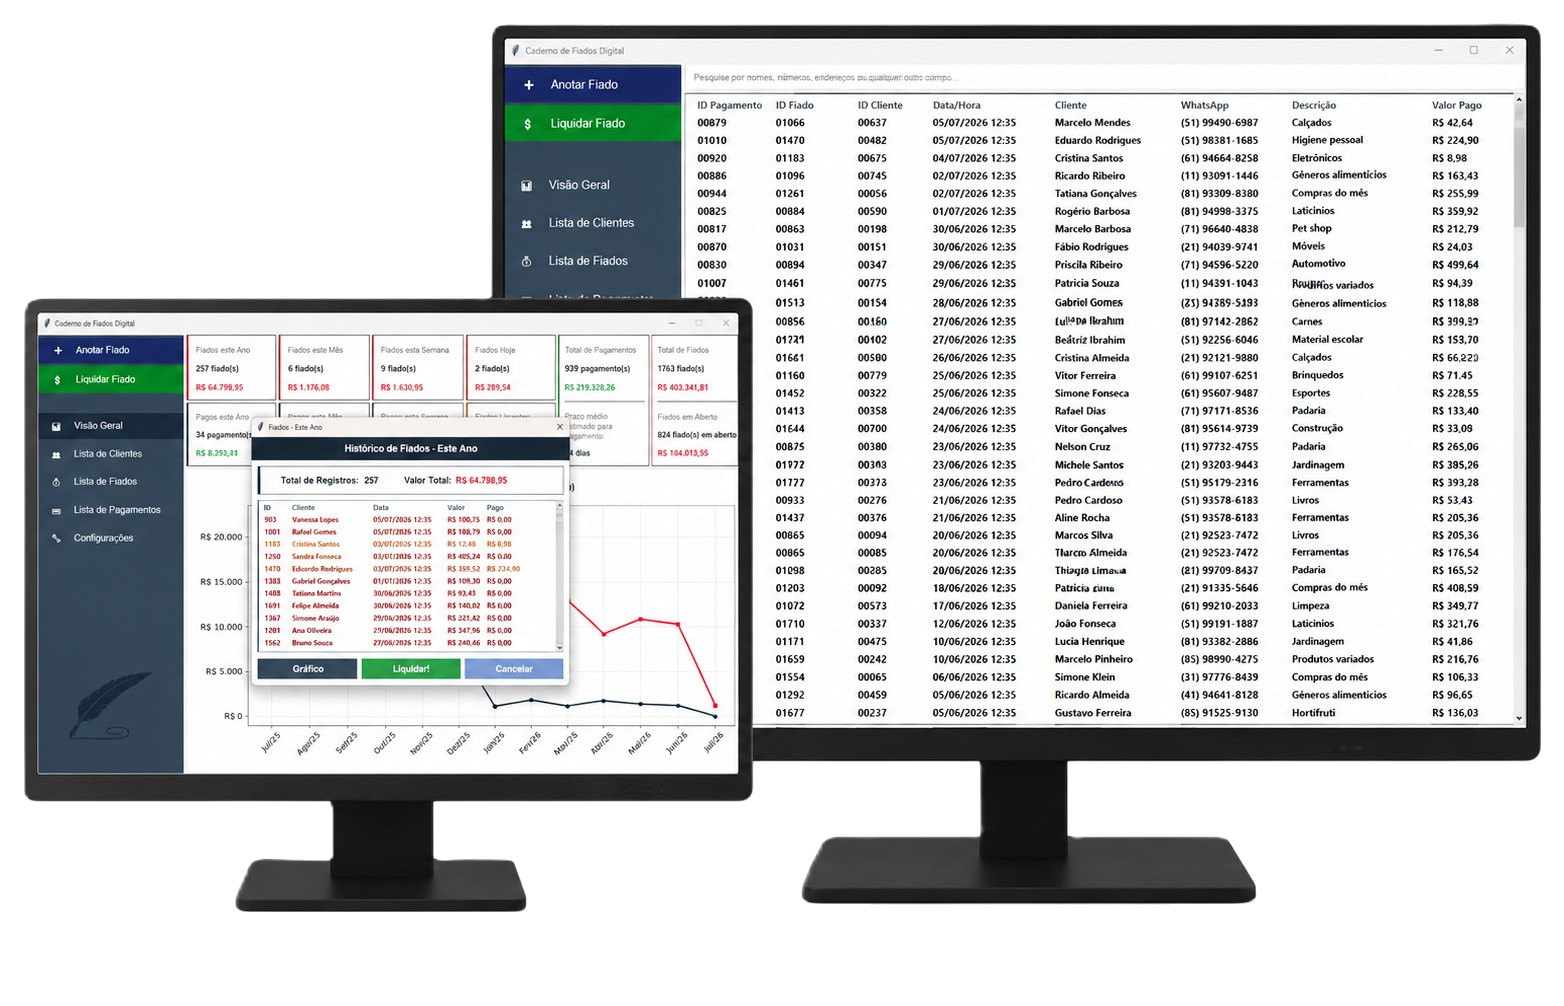
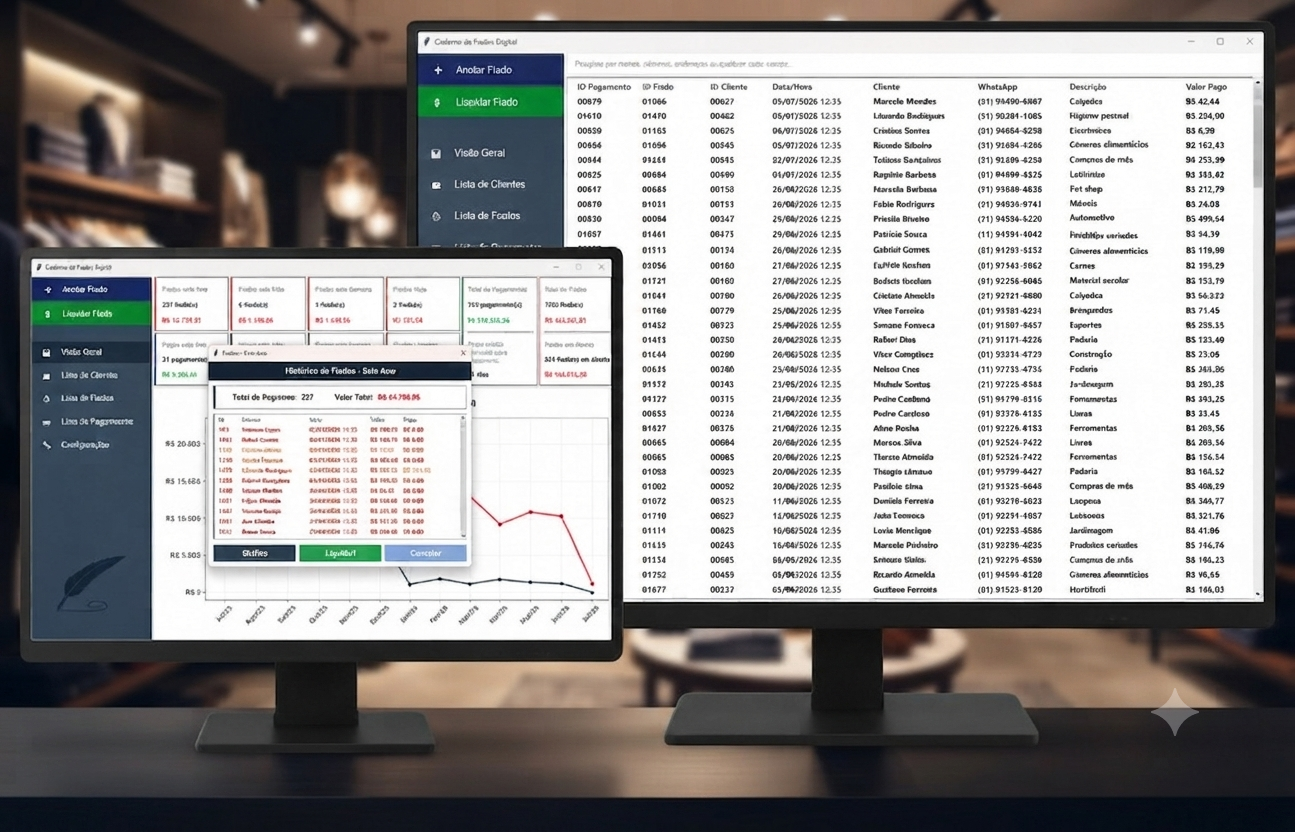
260

diff --git a/cadernodefiadosdigital/index.html b/cadernodefiadosdigital/index.html
@@ -230,7 +230,16 @@
             }
 
             .btn { width: 100%; }
+
+            /* Esconde os blocos de emoji nas últimas 4 seções no mobile */
+            .trophy-large.emoji-block { display: none; }
+
+            /* Mostra o span inline do emoji ao lado do h2 no mobile */
+            .emoji-inline { display: inline !important; }
         }
+
+        /* No desktop o span inline fica oculto */
+        .emoji-inline { display: none; }
         
     </style>
     <meta charset="UTF-8">
@@ -335,56 +344,56 @@
         <div class="feature-image"><img src="../imagens/fiados_urgentes.jpg" alt="Alertas de Fiados Urgentes"></div>
     </section>
 
-    <section class="feature alternate" style="background-color: #f5d3cf;">
+    <section class="feature alternate" style="background-color: #e4d5ff;">
         <div class="feature-image"><img src="../imagens/acessibilidade.png" alt="Acessibilidade"></div>
         <div class="feature-text">
-            <h2>Acessibilidade</h2>
+            <h2>Acessibilidade&nbsp;<span class="emoji-inline">👩💻</span></h2>
             <p>Funciona inteiramente com ou sem mouse, em telas HD, Full HD, e 4K. Sistema intuitivo e fácil de usar.</p>
             <div class="ctas">
                 <button class="btn btn-primary" onclick="baixarAplicativo()">Baixar Teste <img src="../imagens/windows.png" alt="Download" style="height: 20px; width: auto; margin-left: 10px;"></button>
                 <button class="btn btn-secondary" onclick="iniciarCompra()">Comprar Chave <img src="../imagens/carrinho.png" alt="Comprar" style="height: 20px; width: auto; margin-left: 10px;"></button>
             </div>
         </div>
-        <div class="feature-image trophy-large">👩💻</div>
+        <div class="feature-image trophy-large emoji-block">👩💻</div>
     </section>
 
-    <section class="feature alternate" style="background-color: #fff9e6;">
+    <section class="feature alternate" style="background-color: #c0f8e8;">
         <div class="feature-image"><img src="../imagens/internet.png" alt="Funciona sem Internet"></div>
         <div class="feature-text">
-            <h2>Funciona sem Internet</h2>
+            <h2>Funciona sem Internet&nbsp;<span class="emoji-inline">✅</span></h2>
             <p>O aplicativo funciona offline. Nenhuma necessidade de conexão com a internet para registrar fiados, gerenciar clientes ou visualizar relatórios.</p>
             <div class="ctas">
                 <button class="btn btn-primary" onclick="baixarAplicativo()">Baixar Teste <img src="../imagens/windows.png" alt="Download" style="height: 20px; width: auto; margin-left: 10px;"></button>
                 <button class="btn btn-secondary" onclick="iniciarCompra()">Comprar Chave <img src="../imagens/carrinho.png" alt="Comprar" style="height: 20px; width: auto; margin-left: 10px;"></button>
             </div>
         </div>
-        <div class="feature-image trophy-large">✅</div>
+        <div class="feature-image trophy-large emoji-block">✅</div>
     </section>
     
     <section class="feature alternate" style="background-color: #f5d3cf;">
         <div class="feature-image"><img src="../imagens/configuracoes.jpg" alt="Configurações e Backup"></div>
         <div class="feature-text">
-            <h2>Segurança com Backup e Restauração</h2>
+            <h2>Segurança com Backup e Restauração&nbsp;<span class="emoji-inline">🛠</span></h2>
             <p>Seus dados são armazenados localmente em SQLite, garantindo conformidade LGPD. Realize backups e restaurações facilmente e nunca perca seu histórico de vendas fiado.</p>
             <div class="ctas">
                 <button class="btn btn-primary" onclick="baixarAplicativo()">Baixar Teste <img src="../imagens/windows.png" alt="Download" style="height: 20px; width: auto; margin-left: 10px;"></button>
                 <button class="btn btn-secondary" onclick="iniciarCompra()">Comprar Chave <img src="../imagens/carrinho.png" alt="Comprar" style="height: 20px; width: auto; margin-left: 10px;"></button>
             </div>
         </div>
-        <div class="feature-image trophy-large">🛠</div>
+        <div class="feature-image trophy-large emoji-block">🛠</div>
     </section>
 
     <section class="feature alternate" style="background-color: #fff9e6;">
         <div class="feature-image"><img src="../imagens/bom_pagador.png" alt="Selo Bom Pagador"></div>
         <div class="feature-text">
-            <h2>Selo Bom Pagador</h2>
+            <h2>Selo Bom Pagador&nbsp;<span class="emoji-inline">🏆</span></h2>
             <p>Reconheça os bons pagadores. Atribua o "Selo Bom Pagador" manualmente ou deixe que o sistema atribua automaticamente conforme critérios configuráveis.</p>
             <div class="ctas">
                 <button class="btn btn-primary" onclick="baixarAplicativo()">Baixar Teste <img src="../imagens/windows.png" alt="Download" style="height: 20px; width: auto; margin-left: 10px;"></button>
                 <button class="btn btn-secondary" onclick="iniciarCompra()">Comprar Chave <img src="../imagens/carrinho.png" alt="Comprar" style="height: 20px; width: auto; margin-left: 10px;"></button>
             </div>
         </div>
-        <div class="feature-image trophy-large">🏆</div>
+        <div class="feature-image trophy-large emoji-block">🏆</div>
     </section>
     
     <div class="modal" id="modalForm">
